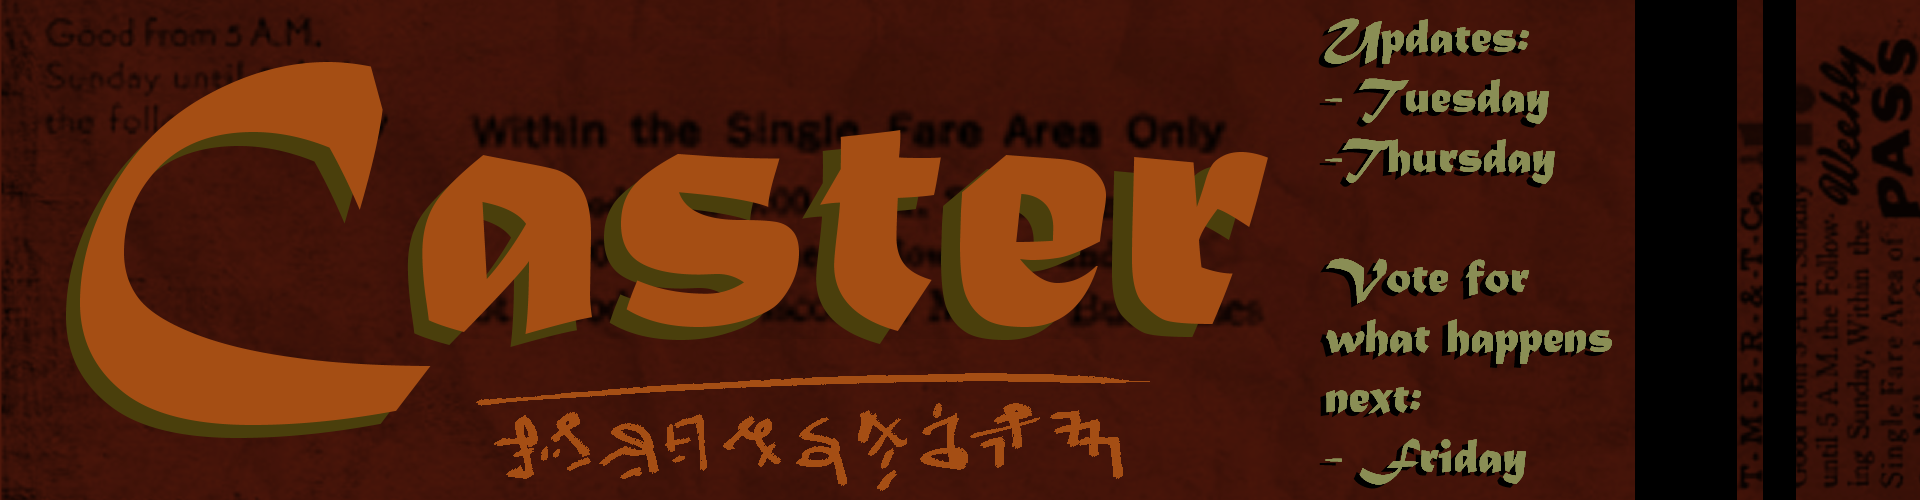
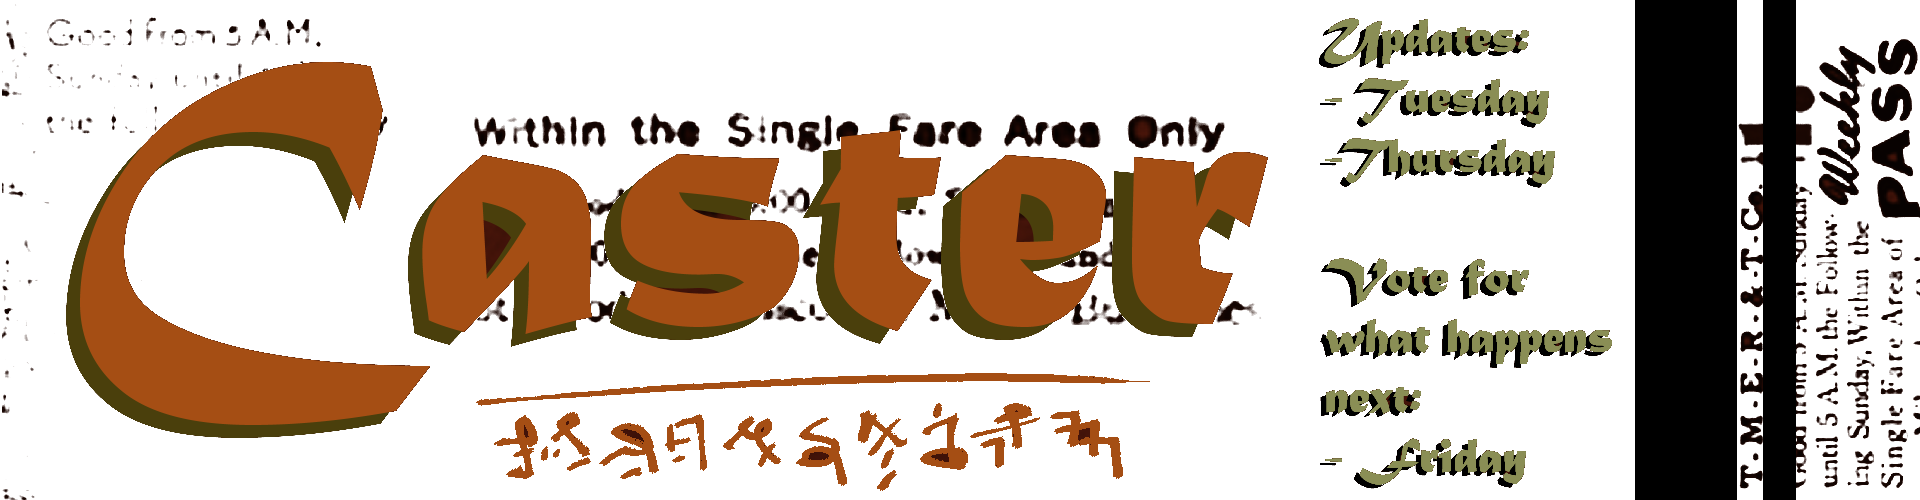
Update site graphics a bit

diff --git a/public/index.html b/public/index.html
@@ -9,25 +9,27 @@
   <body>
     <div class="vertical centered">
       <div id="central-column">
-        <div class="header gradient-background-down">
+        <div class="header light-background weathered">
           <img
             src="images/banner-dreamworld.png"
             alt="Caster, release schedule: updates Tuesday and Thursdays, vote for what happens next on Fridays"
             class="banner-img"
           />
-          <div class="site-button-container">
-            <button id="home-button" class="site-button">home</button>
-            <button id="about-button" class="site-button">about</button>
-            <button id="archive-button" class="site-button">archive</button>
+          <div class="vertical small-gap">
+            <div class="site-button-container">
+              <button id="home-button" class="site-button">home</button>
+              <button id="about-button" class="site-button">about</button>
+              <button id="archive-button" class="site-button">archive</button>
+            </div>
+            <div class="nav-button-container">
+              <button class="nav-button first">&lt&lt first</button>
+              <button class="nav-button prev">&lt prev</button>
+              <button class="nav-button next">next &gt</button>
+              <button class="nav-button latest">latest &gt&gt</button>
+            </div>
           </div>
         </div>
         <div id="comic-view" class="weathered light-background">
-          <div class="nav-button-container">
-            <button class="nav-button first">&lt&lt first</button>
-            <button class="nav-button prev">&lt prev</button>
-            <button class="nav-button next">next &gt</button>
-            <button class="nav-button latest">latest &gt&gt</button>
-          </div>
           <img class="comic-image" src="pages/01.png" />
           <div class="description-container disabled">
             <p class="description">
@@ -112,8 +114,9 @@
               <h3 class="header-text">Comments</h3>
               <div id="comments" class="vertical med-gap"></div>
             </div>
+            <div class="small-filler"></div>
           </div>
-          <div class="small-filler gradient-background-up"></div>
+          <div class="med-filler gradient-background-up-transparent"></div>
           <p class="copyright protect-edges dark-background">
             © 2026 Maia & James
           </p>
@@ -146,9 +149,13 @@
                     </p>
                   </div>
                   <p>
-                    test text that talks about us... very important description
-                    about who this is and what's going on with them and how they
-                    feel and what they think about and all that good stuff
+                    Maia is a person whose sole purpose in life seems to be to
+                    overload herself with projects. She's having fun though, so
+                    don't worry about it! When asked to provide a description of
+                    herself in 5 words or less, she responded by walking away
+                    muttering about language, and came back several days later
+                    and said "What was the question again?"... She hopes you
+                    enjoy the comic :)
                   </p>
                 </div>
               </div>
@@ -169,23 +176,24 @@
                     </p>
                   </div>
                   <p>
-                    A person who loves to create sites, games, whatever needs to
-                    be made, and whatever feels good to make. James is
-                    optimistic about new patterns of making and sharing among
-                    creative people outside of commercial content structures.
+                    James loves to create sites, games, whatever needs to be
+                    made, and whatever feels good to make. He's optimistic about
+                    new patterns of making and sharing among creative people
+                    outside of commercial content structures.
                   </p>
                 </div>
               </div>
             </div>
+            <div class="small-filler"></div>
           </div>
-          <div class="small-filler gradient-background-up"></div>
+          <div class="med-filler gradient-background-up-transparent"></div>
         </div>
         <div id="archive-view" class="disabled">
-          <div
-            id="archive-parent"
-            class="vertical centered small-gap protect-edges light-background weathered"
-          ></div>
-          <div class="small-filler gradient-background-up"></div>
+          <div class="protect-edges light-background weathered">
+            <div id="archive-parent" class="vertical centered small-gap"></div>
+            <div class="small-filler"></div>
+          </div>
+          <div class="med-filler gradient-background-up-transparent"></div>
         </div>
       </div>
     </div>

diff --git a/public/script.js b/public/script.js
@@ -124,22 +124,42 @@ commentSubmitButton.addEventListener("click", async () => {
 let pages = [];
 var currentPageIndex = 0;
 
+const comicImage = document.querySelector(".comic-image");
+const informationDate = document.getElementById("information-date");
+const informationDescription = document.getElementById(
+  "information-description",
+);
+const pageTextContainer = document.querySelector(".description-container");
+const pageText = document.querySelector(".description");
+const navButtonContainer = document.querySelectorAll(
+  ".nav-button-container",
+)[0];
+const bannerImg = document.querySelector(".banner-img");
+const votingContainer = document.getElementById("voting-container");
+const votingOptions = document.getElementById("voting-options");
+let selectedVotingOptionIndex = null;
+const voteSubmitButton = document.getElementById("vote-submit-button");
+
 // site navigation
 const comicView = document.getElementById("comic-view");
 const aboutView = document.getElementById("about-view");
 const archiveView = document.getElementById("archive-view");
 
 document.getElementById("home-button").addEventListener("click", () => {
+  navButtonContainer.classList.remove("disabled");
   comicView.classList.remove("disabled");
   aboutView.classList.add("disabled");
   archiveView.classList.add("disabled");
+  navigateToPage(0);
 });
 document.getElementById("about-button").addEventListener("click", () => {
+  navButtonContainer.classList.add("disabled");
   comicView.classList.add("disabled");
   aboutView.classList.remove("disabled");
   archiveView.classList.add("disabled");
 });
 document.getElementById("archive-button").addEventListener("click", () => {
+  navButtonContainer.classList.add("disabled");
   comicView.classList.add("disabled");
   aboutView.classList.add("disabled");
   archiveView.classList.remove("disabled");
@@ -174,19 +194,6 @@ latestButtons.forEach((button) => {
     navigateToPage(pages.length - 1);
   });
 });
-
-const comicImage = document.querySelector(".comic-image");
-const informationDate = document.getElementById("information-date");
-const informationDescription = document.getElementById(
-  "information-description",
-);
-const pageTextContainer = document.querySelector(".description-container");
-const pageText = document.querySelector(".description");
-const bannerImg = document.querySelector(".banner-img");
-const votingContainer = document.getElementById("voting-container");
-const votingOptions = document.getElementById("voting-options");
-let selectedVotingOptionIndex = null;
-const voteSubmitButton = document.getElementById("vote-submit-button");
 
 function navigateToPage(index) {
   currentPageIndex = index;
@@ -363,10 +370,11 @@ function setUpArchive() {
     newDateText.classList.add("archive-date-text");
 
     const newPageText = document.createElement("p");
-    newPageText.textContent = `page ${i + 1}`;
+    newPageText.textContent = `${i < 10 ? 0 : ""}${i + 1}`;
     newPageText.classList.add("archive-page-text");
 
     newDiv.addEventListener("click", () => {
+      navButtonContainer.classList.remove("disabled");
       comicView.classList.remove("disabled");
       aboutView.classList.add("disabled");
       archiveView.classList.add("disabled");

diff --git a/public/styles.css b/public/styles.css
@@ -24,6 +24,8 @@
 
 html {
   background-color: var(--dark-bg-color);
+  scrollbar-width: thin;
+  scrollbar-color: var(--header-text-color) var(--light-bg-color);
 }
 
 .dark-background {
@@ -48,6 +50,11 @@ html {
     var(--dark-bg-color),
     var(--light-bg-color)
   );
+}
+
+.gradient-background-up-transparent {
+  background-image: linear-gradient(to top, var(--dark-bg-color), transparent);
+  margin-top: -80px;
 }
 
 .weathered {
@@ -155,10 +162,6 @@ html {
   gap: 10px;
 }
 
-.disabled {
-  display: none;
-}
-
 .about-person-image {
   width: 150px;
   height: 150px;
@@ -166,7 +169,12 @@ html {
 
 .small-filler {
   width: 100%;
-  height: 60px;
+  height: 40px;
+}
+
+.med-filler {
+  width: 100%;
+  height: 80px;
 }
 
 #central-column {
@@ -206,6 +214,7 @@ html {
 }
 
 .site-button-container {
+  justify-content: center;
   display: flex;
   flex-direction: row;
   gap: 20px;
@@ -385,6 +394,28 @@ html {
   align-items: center;
   gap: 10px;
   padding: 10px;
+}
+
+.disabled {
+  display: none;
+}
+
+::-webkit-scrollbar {
+  width: 8px;
+  height: 8px;
+}
+::-webkit-scrollbar-track {
+  background: var(--light-bg-color);
+}
+::-webkit-scrollbar-button {
+  display: none; /* removes the arrow buttons */
+}
+::-webkit-scrollbar-corner {
+  background: transparent;
+}
+::-webkit-scrollbar-thumb {
+  background: var(--header-text-color);
+  border-radius: 0px;
 }
 
 @media (max-width: 840px) {
